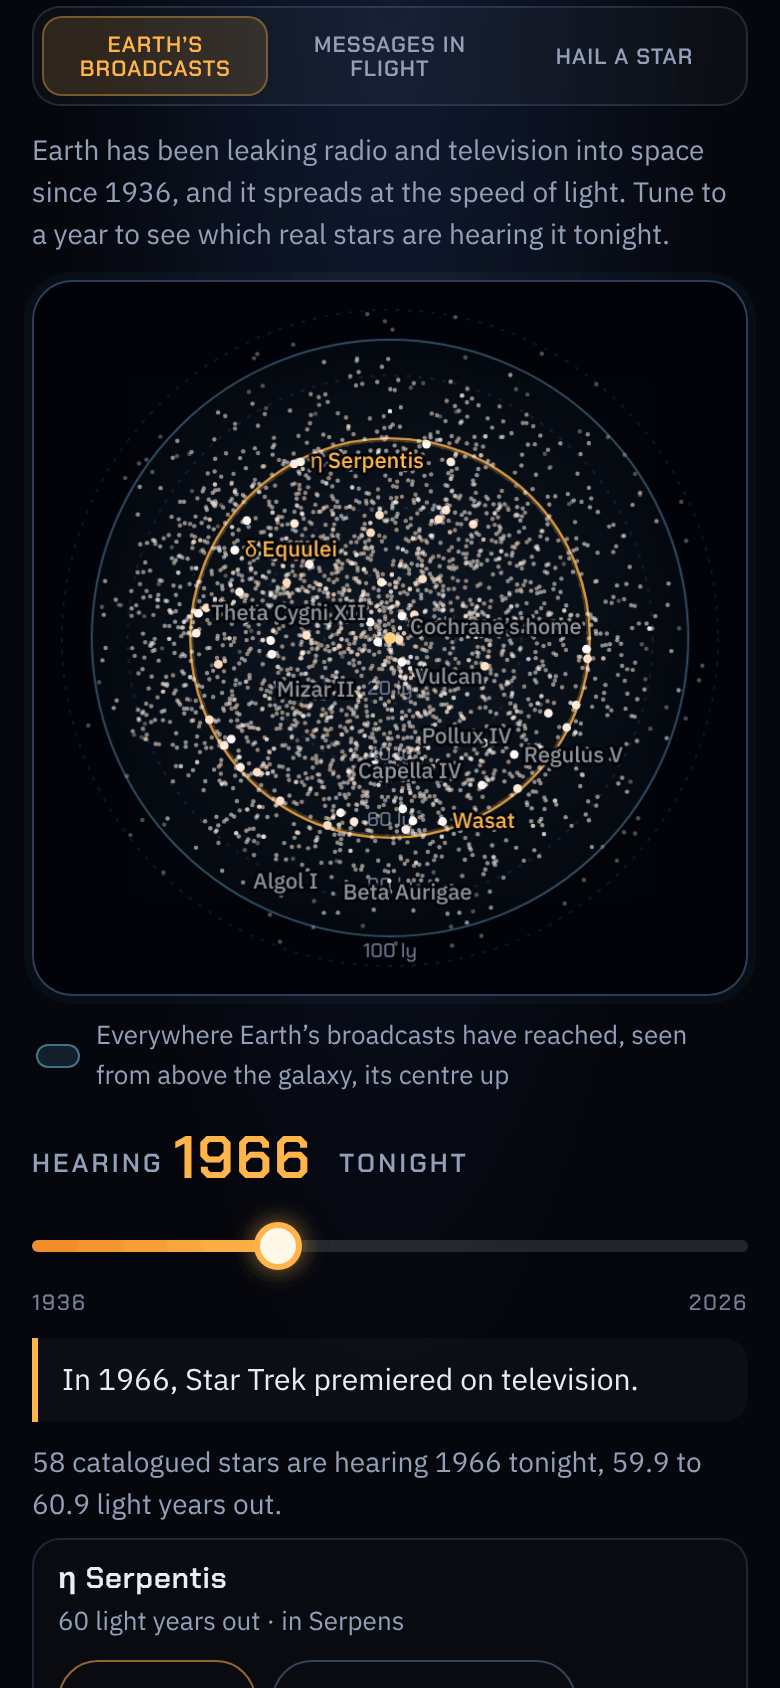
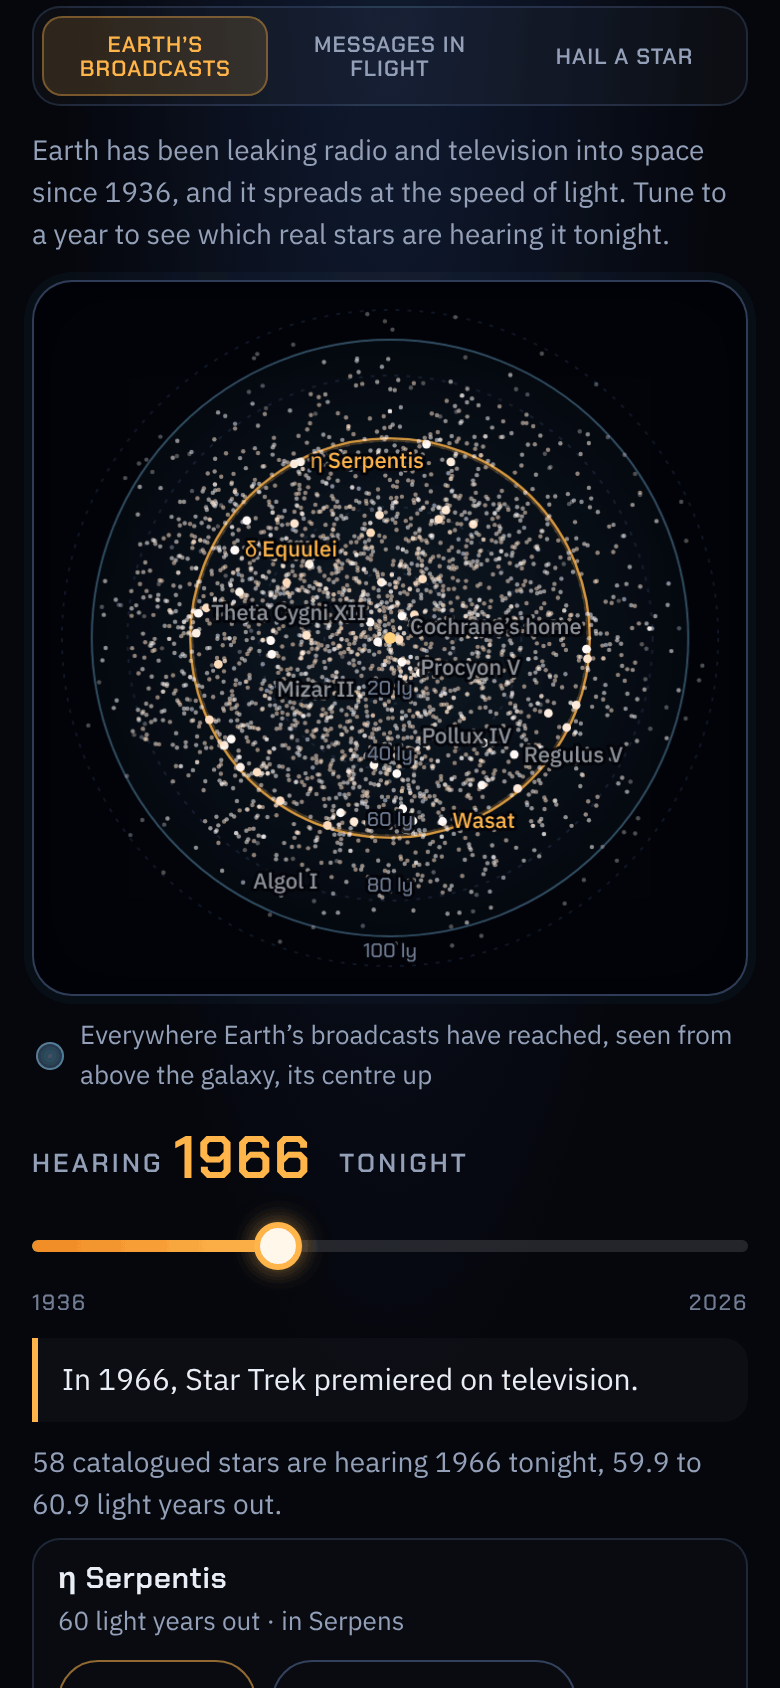
Subspace radio: the map's key reads as a key, and its rings' distances show
Under the map, the key for the pale bubble of everywhere Earth's broadcasts have reached was a small outlined pill,
which on a phone looks like a switch to tap. It is now a small filled disc in the bubble's colour. On the map, the
20, 40, 60 and 80 light-year labels were written before the stars, so the dense stars near the middle covered them
(on the phone picture, "40 ly" and "60 ly" were barely there); they are now written after the stars and before the
names, which still keep clear of them. The README's picture and the link preview are redrawn.

Claude-Session: https://claude.ai/code/session_01PQbLNVDaib7dGBXFANm7XP

diff --git a/js/radio-room.js b/js/radio-room.js
@@ -81,16 +81,15 @@ function drawMap() {
   g.beginPath(); g.arc(mid, mid, edge, 0, Math.PI * 2); g.stroke();
   // Distance rings every 20 light years, labelled where each crosses the line straight down from the Sun. The labels'
   // places are kept, so no star's name is written over one.
-  const boxes = [];
-  g.font = '500 10px "Chakra Petch", sans-serif'; g.textAlign = 'center'; g.textBaseline = 'bottom';
+  // (The labels are written after the stars, so no dot covers one.)
+  const boxes = [], ringLabels = [];
+  g.font = '500 10px "Chakra Petch", sans-serif';
   for (let d = 20; d <= MAP_LY; d += 20) {
     g.strokeStyle = 'rgba(140, 180, 255, 0.12)'; g.setLineDash([2, 4]);
     g.beginPath(); g.arc(mid, mid, d * k, 0, Math.PI * 2); g.stroke();
     g.setLineDash([]);
     const text = `${d} ly`, w = g.measureText(text).width, y = mid + d * k - 2;
-    g.strokeStyle = 'rgba(2, 4, 10, 0.9)'; g.lineWidth = 3; g.lineJoin = 'round'; g.strokeText(text, mid, y);
-    g.fillStyle = 'rgba(114, 127, 151, 0.95)'; g.fillText(text, mid, y);
-    g.lineWidth = 1;
+    ringLabels.push([text, y]);
     boxes.push([mid - w / 2 - 2, y - 11, mid + w / 2 + 2, y + 1]);
   }
   // The year on the dial: a band from where its last broadcasts are to where its first are.
@@ -112,6 +111,13 @@ function drawMap() {
     g.beginPath(); g.arc(x, y, lit ? 2.2 : 1.1, 0, Math.PI * 2); g.fill();
     dots.push({ x, y, star: i });
   }
+  // The rings' distances, over the stars.
+  g.font = '500 10px "Chakra Petch", sans-serif'; g.textAlign = 'center'; g.textBaseline = 'bottom'; g.lineJoin = 'round';
+  for (const [text, y] of ringLabels) {
+    g.strokeStyle = 'rgba(2, 4, 10, 0.9)'; g.lineWidth = 3; g.strokeText(text, mid, y);
+    g.fillStyle = 'rgba(114, 127, 151, 0.95)'; g.fillText(text, mid, y);
+  }
+  g.lineWidth = 1;
   // Names: the three named for the year, the star picked, and the stars with notes.
   const three = new Set(pickThree(cat, hearing(cat, view.year, t), { known, named: i => properName(cat.names[i]) }).map(s => s.star));
   g.font = '500 11px "IBM Plex Sans", sans-serif'; g.textAlign = 'left'; g.textBaseline = 'middle';

diff --git a/sw.js b/sw.js
@@ -8,7 +8,7 @@
 // fingerprint of every file in SHELL: change any of them and test/e2e.mjs fails until FILES is changed to match (it
 // says what to), which changes this file, so every copy is made whole again at once.
 const CACHE = 'engage-v42'; // bump the number when the file list changes
-const FILES = 'dd90c16c'; // test/e2e.mjs checks this
+const FILES = 'f4d90a0b'; // test/e2e.mjs checks this
 const SHELL = [
   './', 'index.html', 'survey.html', 'maru.html', 'missions.html', 'tonight.html', 'xeno.html', 'contact.html', 'warp.html', 'system.html', 'away.html', 'radio.html', 'astrometrics.html', 'icon.svg', 'manifest.webmanifest',
   'css/app.css', 'css/survey.css', 'css/maru.css', 'css/missions.css', 'css/tonight.css', 'css/xeno.css', 'css/contact.css', 'css/warp.css', 'css/system.css', 'css/away.css', 'css/radio.css', 'css/astrometrics.css', 'js/app.js', 'js/maru.js', 'js/maru-sim.js', 'js/archive.js', 'js/missions.js', 'js/tonight.js', 'js/xeno.js', 'js/xeno-gen.js', 'js/xeno-art.js', 'js/species.js', 'js/contact.js', 'js/contact-sim.js', 'js/contact-art.js', 'js/contacts.js', 'js/warp.js', 'js/warp-scale.js', 'js/deepsky.js', 'js/wake.js', 'js/astro.js', 'js/charts.js', 'js/ships.js', 'js/ephemeris.js', 'js/classes.js', 'js/planet-art.js', 'js/survey.js', 'js/pace.js', 'js/moons.js', 'js/quiz.js', 'js/hunt.js', 'js/hunt-view.js', 'js/audio.js', 'js/catalog.js', 'js/destinations.js', 'js/log.js', 'js/search.js', 'js/share.js', 'js/switch.js', 'js/officer.js', 'js/officer-sim.js', 'js/store.js', 'js/onscreen.js', 'js/physics.js', 'js/sky.js', 'js/rooms.js', 'js/sheets.js', 'js/courses.js', 'js/logbook.js', 'js/voyage.js', 'js/myship.js', 'js/records.js', 'js/voyages.js', 'js/impulse.js', 'js/lives.js', 'js/computer.js', 'js/variables.js', 'js/worlds.js', 'js/system.js', 'js/away.js', 'js/cartography.js', 'js/chart-view.js', 'js/radio.js', 'js/radio-room.js', 'js/hr.js', 'js/astrometrics.js',

diff --git a/css/radio.css b/css/radio.css
@@ -11,7 +11,7 @@
   box-shadow: 0 0 0 4px rgba(134, 216, 255, 0.04), inset 0 0 40px rgba(0, 0, 0, 0.6); }
 .screen canvas { position: absolute; inset: 0; width: 100%; height: 100%; display: block; cursor: pointer; touch-action: manipulation; }
 .key { display: flex; align-items: center; gap: 8px; margin: 10px 2px 0; color: var(--muted); font-size: 13px; }
-.bubble-swatch { flex: none; width: 22px; height: 12px; border-radius: 6px; background: rgba(134, 216, 255, 0.12); border: 1px solid rgba(134, 216, 255, 0.45); }
+.bubble-swatch { flex: none; width: 14px; height: 14px; border-radius: 50%; background: radial-gradient(circle, rgba(134, 216, 255, 0.4), rgba(134, 216, 255, 0.18)); border: 1px solid rgba(134, 216, 255, 0.45); }
 
 /* The dial */
 .dial-label { display: block; font: 600 13px/1.2 var(--display); letter-spacing: 0.12em; text-transform: uppercase; color: var(--muted); }
